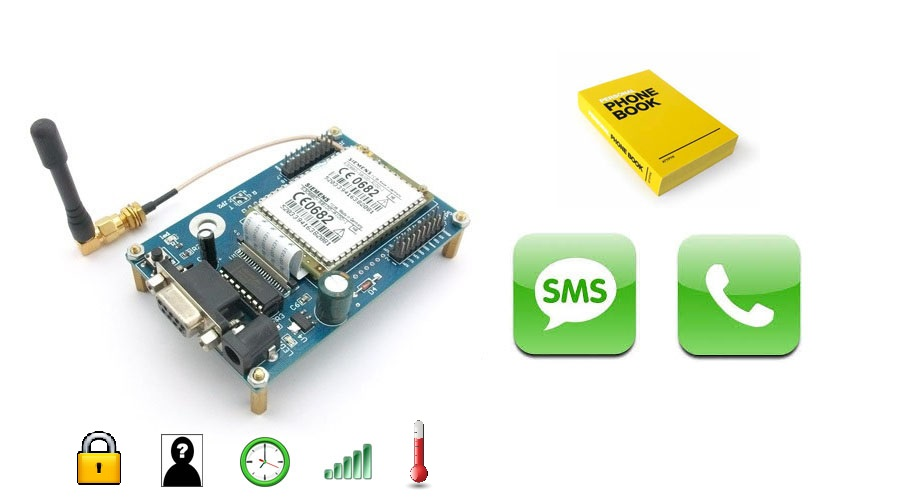
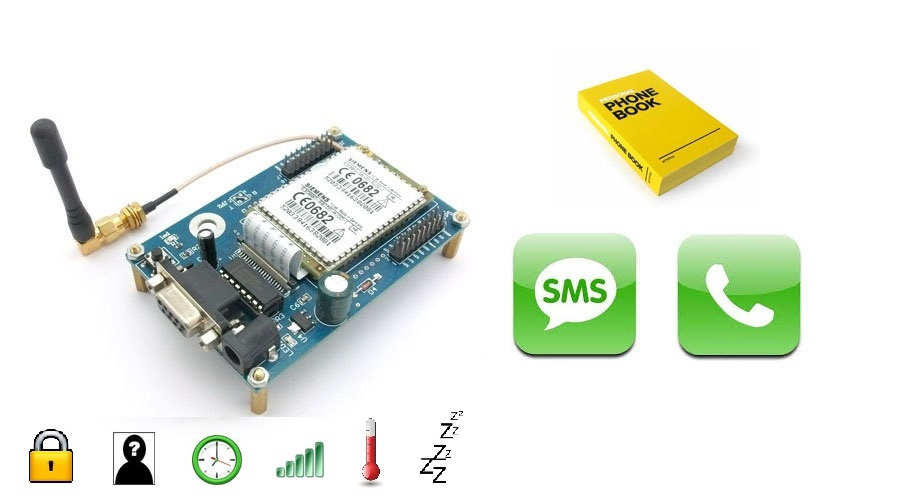
lib: Add sleep mode function (low power consumption)
Add function to sleep and wake up with one or more elements:
 - Timer
 - Call
 - SMS
 - Temeprature reporting

Changed region(s): [[0.0311, 0.84, 0.5289, 0.99]]

diff --git a/GSMTC35/GSMTC35.py b/GSMTC35/GSMTC35.py
@@ -14,6 +14,7 @@
     - Call/Re-call
     - Hang up/Pick-up call
     - Get/Add/Delete phonebook entries (phone numbers + contact names)
+    - Sleep (Low power consumption)
     - Check if someone is calling
     - Check if there is a call in progress
     - Get last call duration
@@ -1567,6 +1568,88 @@ class GSMTC35:
     self.__waitDataContains(self.__RETURN_OK, self.__RETURN_ERROR)
 
     return False
+
+
+  def sleep(self, wake_up_with_timer_in_sec=-1, wake_up_with_call=False,
+            wake_up_with_sms=False, wake_up_with_temperature_warning=False):
+    """Blocking sleep until a specific action occurs (enter low power mode)
+
+    Keyword arguments:
+      wake_up_with_timer_in_sec -- (int) Time before waking-up the module (in sec), -1 to not use timer
+      wake_up_with_call -- (bool) Wake-up the module if a call is received
+      wake_up_with_sms -- (bool) Wake-up the module if a SMS is received
+      wake_up_with_temperature_warning -- (bool) Wake-up the module too high or too low
+
+    return: (bool, bool, bool, bool, bool) Sleep was entered and is now finished, Waked-up by timer,
+                                           Waked-up by call, Waked-up by SMS, Waked-up by temperature
+    """
+    min_alarm_sec = 10
+    gsm_waked_up_by_alarm = False
+    gsm_waked_up_by_call = False
+    gsm_waked_up_by_sms = False
+    gsm_waked_up_by_temperature = False
+
+    # Do not allow infinite sleep (better stop the device with {switchOff()})
+    if (not wake_up_with_call) and (not wake_up_with_sms) \
+       and (not wake_up_with_temperature_warning) \
+       and (wake_up_with_timer_in_sec < min_alarm_sec):
+      logging.error("Sleep can't be used without any possibility to wake up")
+      logging.error("Be sure at least one trigger is used (and timer >= 10sec)")
+      return False, gsm_waked_up_by_alarm, gsm_waked_up_by_call, gsm_waked_up_by_sms, gsm_waked_up_by_temperature
+
+    # Enable all requested wake up
+    if wake_up_with_call:
+      if not self.__sendCmdAndCheckResult(cmd=GSMTC35.__NORMAL_AT+"CLIP=1"):
+        logging.error("Impossible to enable the wake up with call")
+        self.__disableAsynchronousTriggers()
+        return False, gsm_waked_up_by_alarm, gsm_waked_up_by_call, gsm_waked_up_by_sms, gsm_waked_up_by_temperature
+
+    if wake_up_with_sms:
+      if not self.__sendCmdAndCheckResult(cmd=GSMTC35.__NORMAL_AT+"CNMI=1,1"):
+        logging.error("Impossible to enable the wake up with SMS")
+        self.__disableAsynchronousTriggers()
+        return False, gsm_waked_up_by_alarm, gsm_waked_up_by_call, gsm_waked_up_by_sms, gsm_waked_up_by_temperature
+
+    if wake_up_with_temperature_warning:
+      if not self.__sendCmdAndCheckResult(cmd=GSMTC35.__BASE_AT+"^SCTM=1"):
+        logging.error("Impossible to enable the wake up with temperature report")
+        self.__disableAsynchronousTriggers()
+        return False, gsm_waked_up_by_alarm, gsm_waked_up_by_call, gsm_waked_up_by_sms, gsm_waked_up_by_temperature
+
+    if wake_up_with_timer_in_sec >= min_alarm_sec:
+      if not self.__addAlarmAsAChrono(wake_up_with_timer_in_sec + 1): # Add one sec (due to query time)
+        logging.error("Impossible to enable the wake up with alarm")
+        self.__disableAsynchronousTriggers()
+        return False, gsm_waked_up_by_alarm, gsm_waked_up_by_call, gsm_waked_up_by_sms, gsm_waked_up_by_temperature
+
+    # Sleep
+    if not self.__sendCmdAndCheckResult(cmd=GSMTC35.__NORMAL_AT+"CFUN=0"):
+      logging.error("Impossible to enable sleep mode")
+      self.__disableAsynchronousTriggers()
+      return False, gsm_waked_up_by_alarm, gsm_waked_up_by_call, gsm_waked_up_by_sms, gsm_waked_up_by_temperature
+
+    # Wait until a trigger stops the sleep mode
+    while True:
+      # Wait any element to arrive from buffer (means sleep mode not
+      data = self.__getNotEmptyLine(additional_timeout=3600)
+
+      # At least one character was received (it means sleep mode is not active anymore)
+      if len(data) > 0:
+        if len(data) >= 5:
+          type = data[:5]
+          if type == "+CMTI":
+            gsm_waked_up_by_sms = True
+          elif type == "+CLIP" or type == "RING":
+            gsm_waked_up_by_call = True
+          elif type == "^SCTM":
+            gsm_waked_up_by_temperature = True
+          elif type == "+CALA":
+            gsm_waked_up_by_alarm = True
+
+      # Set to asynchronous element to default state
+      self.__disableAsynchronousTriggers()
+
+      return True, gsm_waked_up_by_alarm, gsm_waked_up_by_call, gsm_waked_up_by_sms, gsm_waked_up_by_temperature
 
 
 ################################# HELP FUNCTION ################################

diff --git a/README.md b/README.md
@@ -20,6 +20,7 @@ Non-exhaustive list of GSMTC35 class functionalities:
   - Call/Re-call (possible to hide phone number)
   - Hang-up/Pick-up call
   - Get/Add/Delete phonebook entries (phone numbers + contact names)
+  - Sleep with wake up possibilities (Low power consumption)
   - Check if someone is calling
   - Check if there is a call in progress
   - Check call status (call/ringing/...) and get the associated phone number
@@ -195,6 +196,13 @@ print("Accumulated call meter max: "+str(gsm.getAccumulatedCallMeterMaximum())+"
 print("Is temperature critical: "+str(gsm.isTemperatureCritical()))
 print("Is in sleep mode: "+str(gsm.isInSleepMode()))
 
+# Make the GSM module sleep for 20sec (may be wake up by received call or SMS)
+sleep_ok, timer_wake, call_wake, sms_wake, temp_wake = \
+  gsm.sleep(wake_up_with_timer_in_sec=20, wake_up_with_call=True,
+            wake_up_with_sms=True)
+print("GSM was in sleep mode ("+str(sleep_ok)+"), wake-up by: Timer ("
+      +str(timer_wake)+") or a call ("+str(call_wake)+") or a SMS ("+str(sms_wake)+")")
+
 # Reboot (an init is needed to use gsm functions after such a call)
 print("Reboot: "+str(gsm.reboot()))
 
@@ -206,7 +214,6 @@ gsm.close()
 ##TODO list
 
   - Add functionalities (class + command line):
-    * [NORMAL] Add sleep mode (sleep and wake up with alarm/SMS/call/temperature)
     * [ENHANCEMENT] Add PUK support
     * [ENHANCEMENT] Add call forwarding support
     * [ENHANCEMENT] Add loudspeaker/microphone volume/mute support
